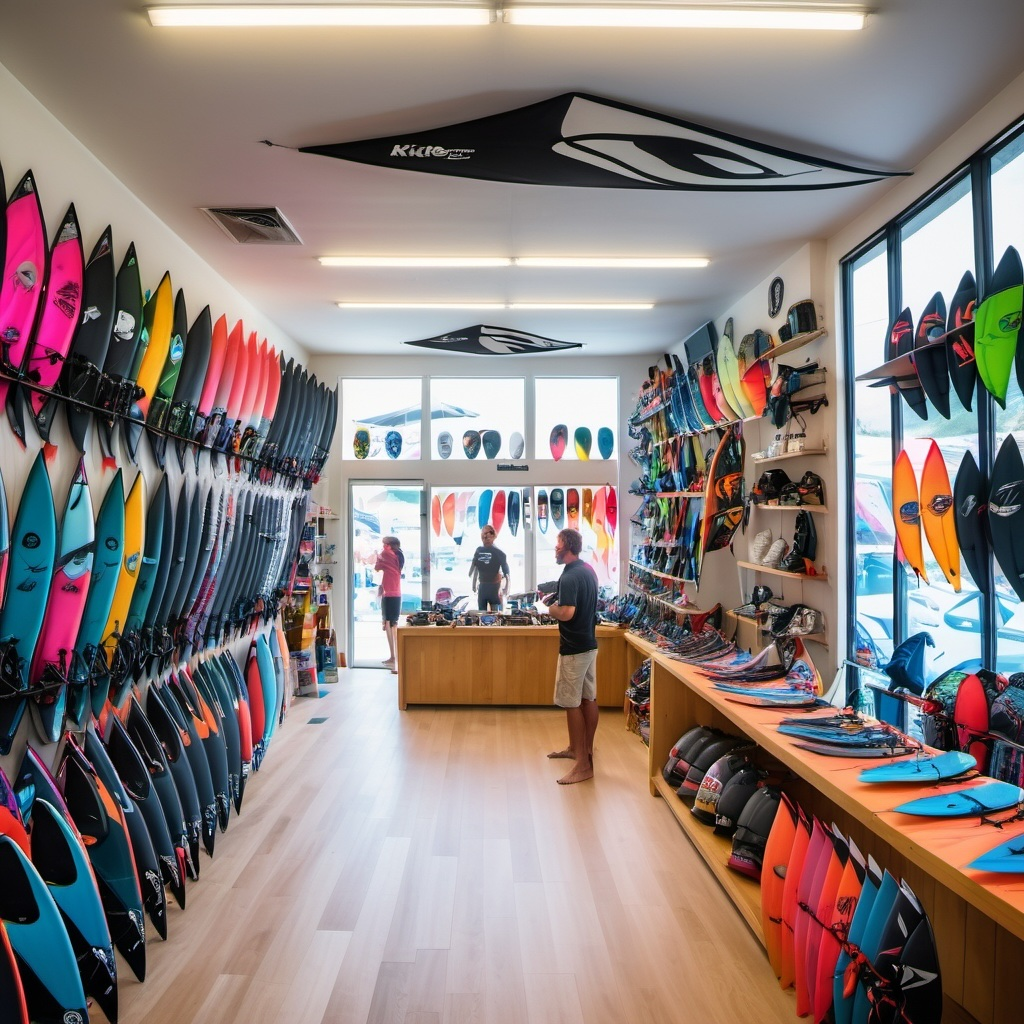
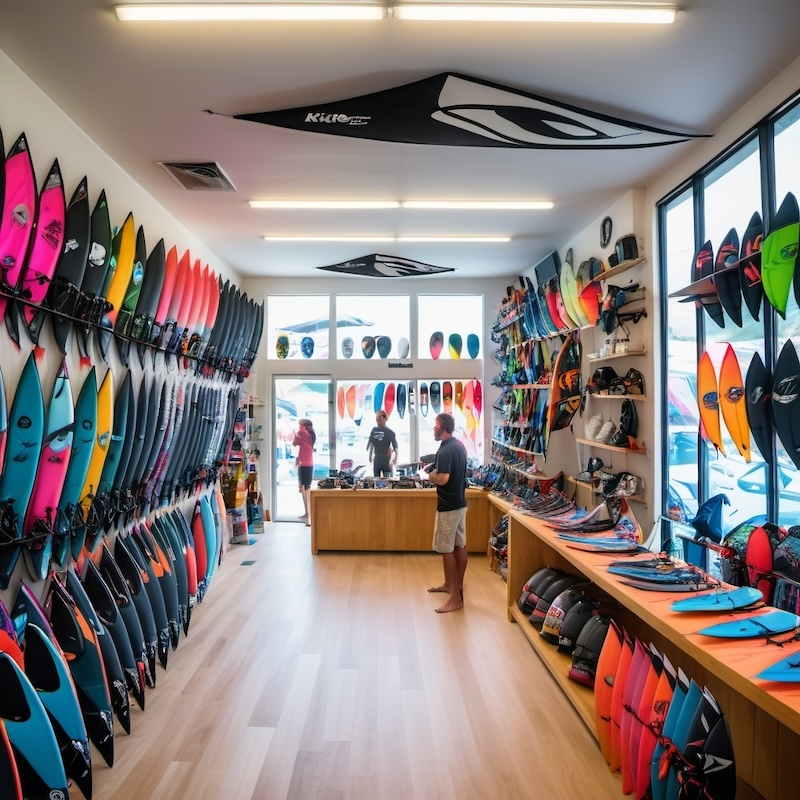
Adding AI generated image on Service, adjusting sizes of photos

Changed region(s): [[0.5, 0.3125, 0.5312, 0.3438], [0.1562, 0.6875, 0.1875, 0.7188], [0.125, 0.7188, 0.1562, 0.75]]

diff --git a/index.html b/index.html
@@ -80,9 +80,6 @@
                         <div class="carousel-item">
                             <img src="assets/images/Carousel_Photo4.jpg" class="d-block w-100" alt="Photo of surfer standning in the water with his kite out of sight in the air">
                         </div>
-                        <div class="carousel-item">
-                            <img src="assets/images/Carousel_Photo5.jpg" class="d-block w-100" alt="Photo of man on the beach holding his yellow Kite.">
-                        </div>
                     </div>
                     <button class="carousel-control-prev" type="button" data-bs-target="#carouselExampleAutoplaying" data-bs-slide="prev">
                         <span class="carousel-control-prev-icon" aria-hidden="true"></span>

diff --git a/assets/css/style.css b/assets/css/style.css
@@ -124,7 +124,7 @@ p {
 #hero {
     height: 75vh;
     width: 100%;
-    background: url('../images/Kite_equipment_beach.jpg') no-repeat center center/cover;
+    background: url('../images/Hero_Equipment.jpg') no-repeat center center/cover;
     position: relative;
 }
 

diff --git a/README.md b/README.md
@@ -202,6 +202,9 @@ The deployed site is available via this [Link](https://jnicolin.github.io/MS1-Ki
 - Gerald Schömbs
 - Matt Bensom
 - Dick Hoogerdijk
+- Kelsey Chance
+
+[Openart AI for generating images](https://openart.ai)
 
 
 ## Resources used
